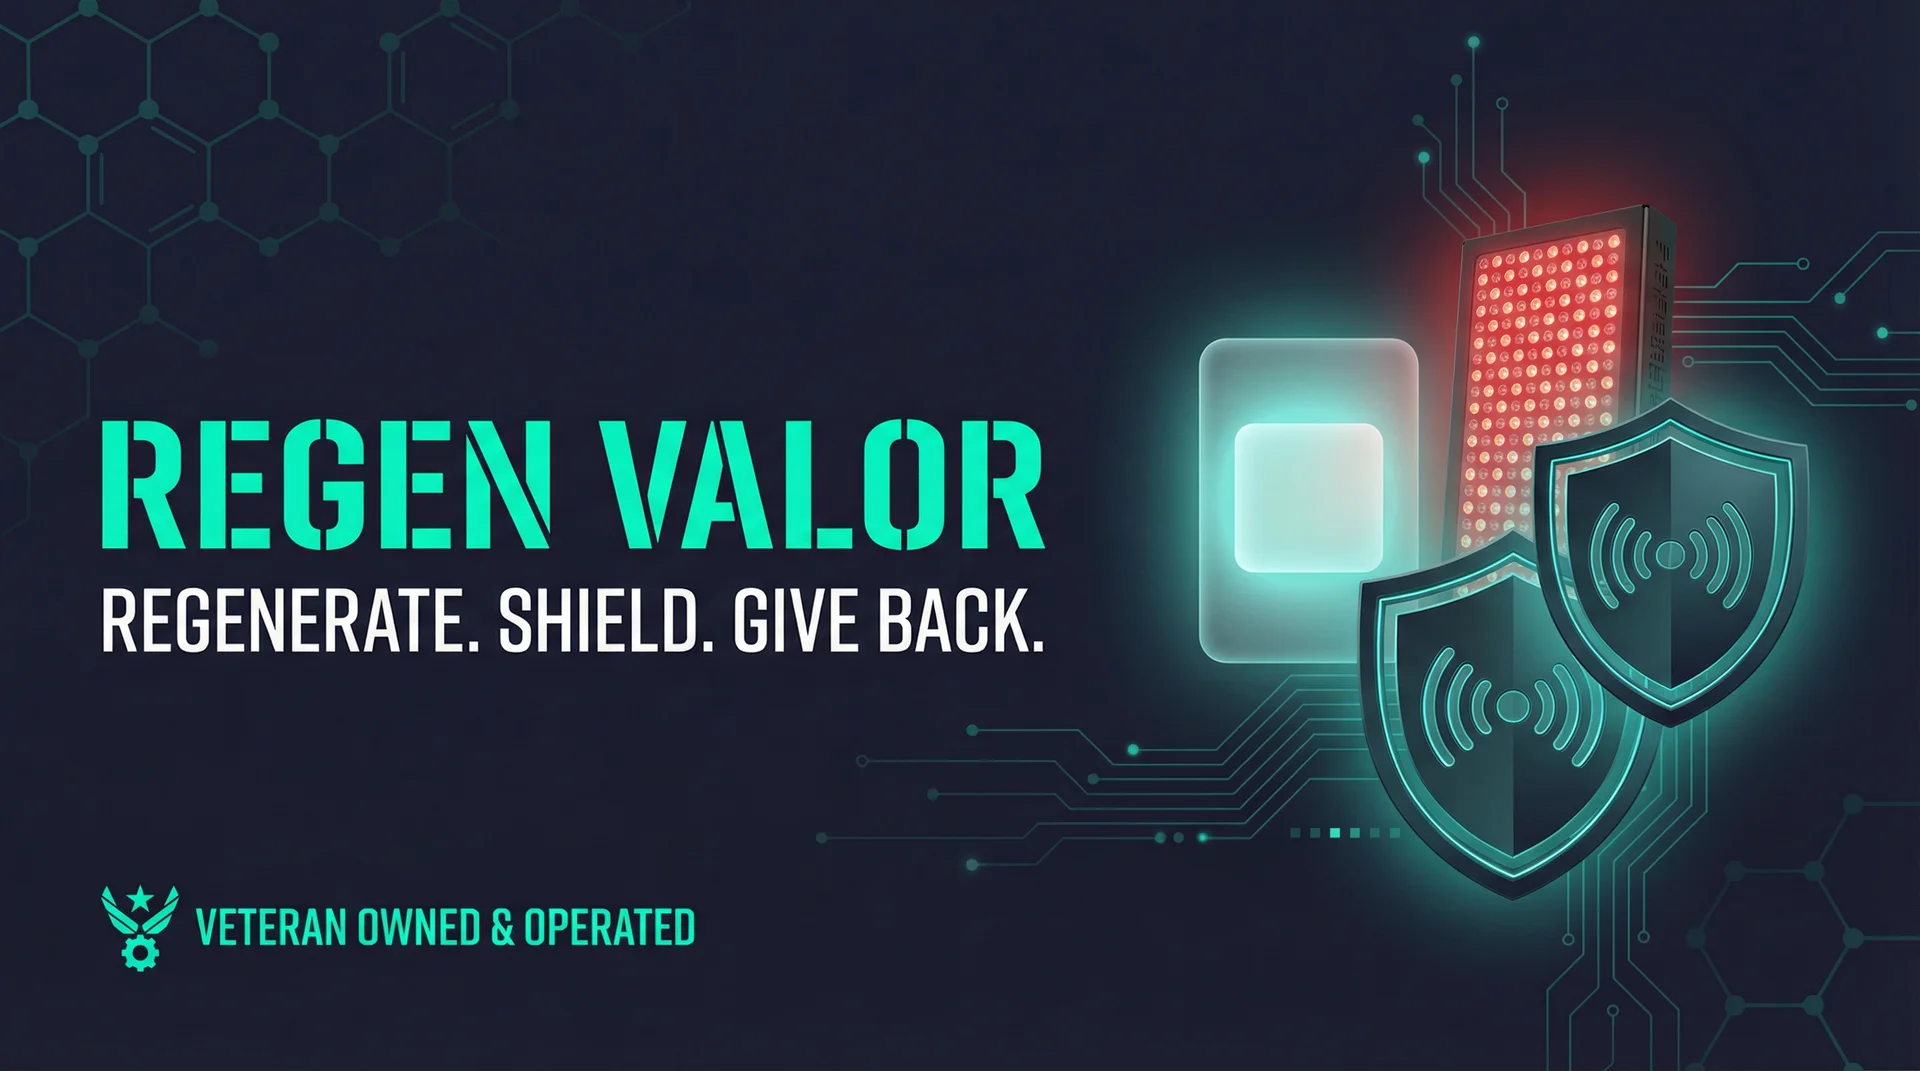
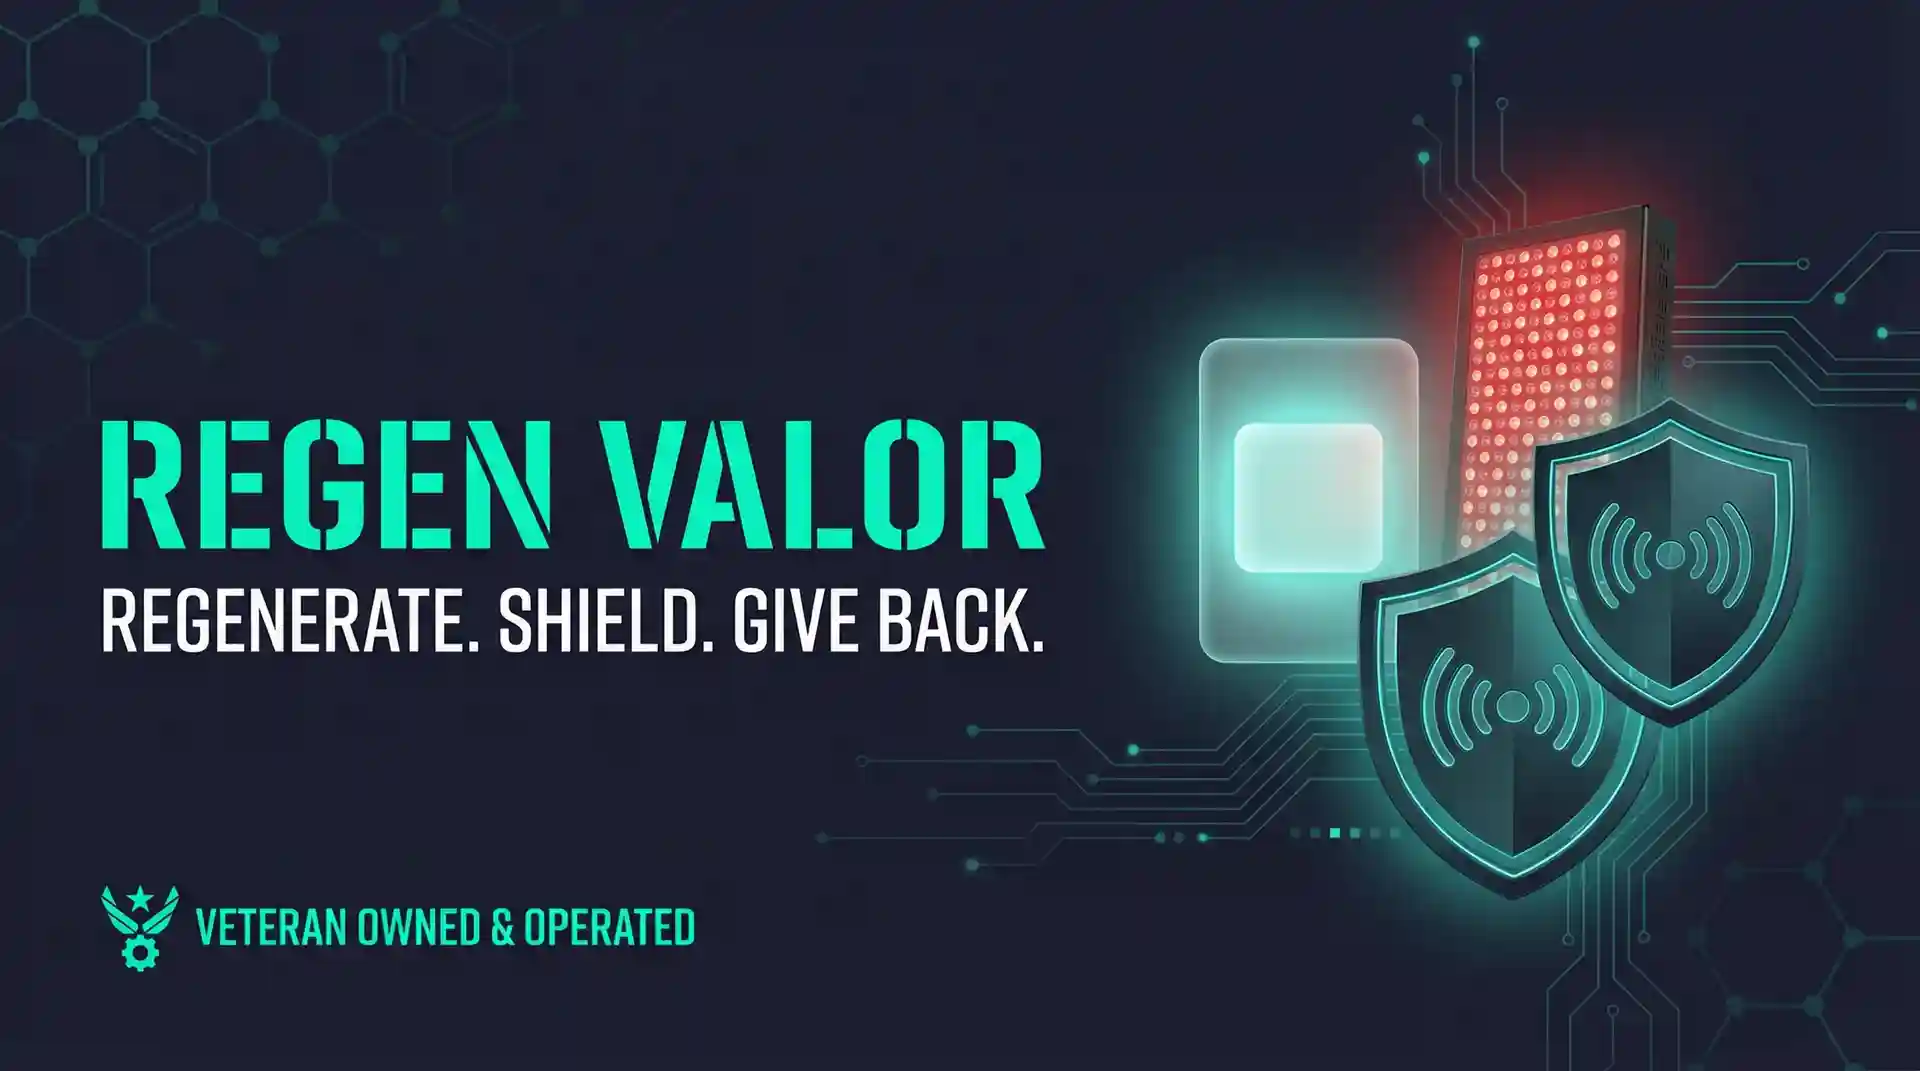
perf: add app shell skeleton for instant FCP + compress background image
- Inline HTML skeleton in root div shows hero content before JS loads
- Compresses regenvalor_hero_bg.webp from 90KB to 30KB (used at 10% opacity)
- App shell shows dark bg, orange header text, and hero banner immediately
- React replaces skeleton content on mount (no visual regression)

Changed region(s): [[0.7812, 0.2465, 0.8438, 0.4314], [0.0625, 0.8319, 0.0938, 0.8936], [0.25, 0.8627, 0.2812, 0.8936]]

diff --git a/client/index.html b/client/index.html
@@ -90,7 +90,7 @@
   </head>
 
   <body>
-    <div id="root"></div>
+    <div id="root"><div style="min-height:100vh;background:#0a0a0a;color:#fafafa"><div style="width:100%;background:linear-gradient(to right,#000,rgb(15,12,8),#000);padding:8px 0;border-bottom:1px solid rgba(255,140,0,0.2)"><p style="text-align:center;font-size:14px;font-weight:700;letter-spacing:0.25em;text-transform:uppercase;color:#ff8c00;font-family:Inter,system-ui,sans-serif;margin:0">HERO Dapp — Built for Veterans, by Veterans</p></div><div style="width:100%;height:60vh;min-height:400px;max-height:700px;background:#111"><img src="/hero-banner-sm.webp" alt="" style="width:100%;height:100%;object-fit:cover" fetchpriority="high"/></div></div></div>
     <script type="module" src="/src/main.tsx"></script>
     <script
       defer